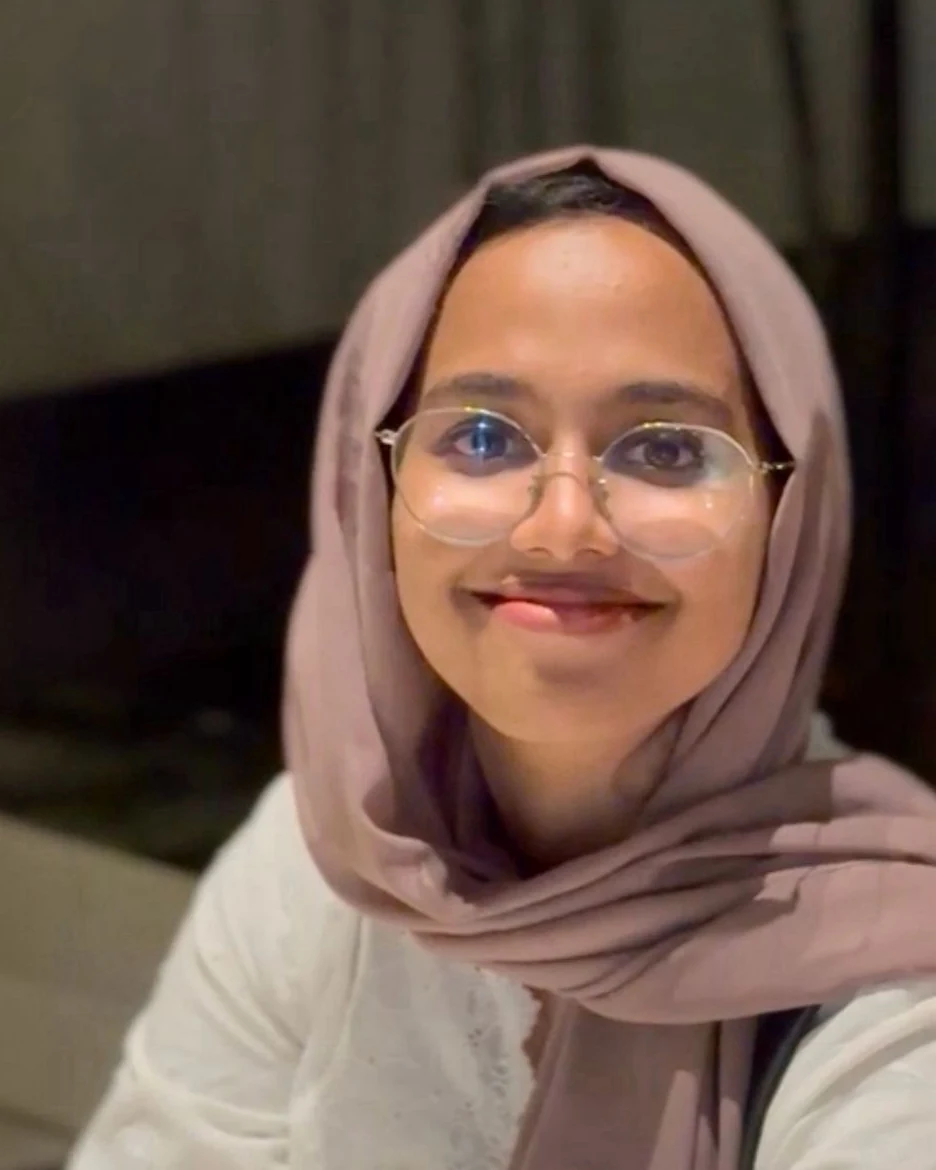
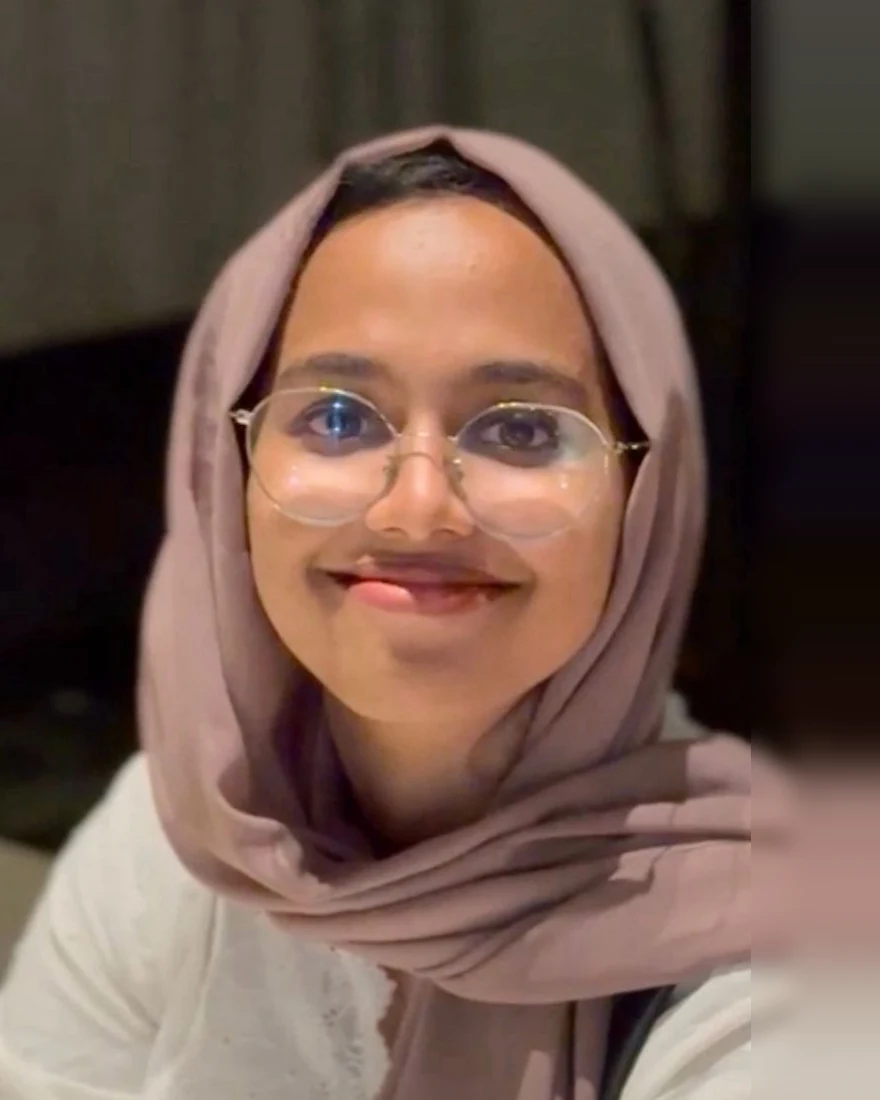
Centre face in hero portrait

diff --git a/style.css b/style.css
@@ -260,7 +260,7 @@ em { font-family: var(--serif); font-style: italic; font-weight: 400; }
     content: ""; position: absolute; inset: 0; z-index: 1; pointer-events: none;
     background: linear-gradient(180deg, transparent 55%, rgba(12, 11, 15, .55));
 }
-.portrait img { width: 100%; height: 100%; object-fit: cover; object-position: 50% 30%; filter: saturate(.95) contrast(1.03); }
+.portrait img { width: 100%; height: 100%; object-fit: cover; object-position: 50% 50%; filter: saturate(.95) contrast(1.03); }
 
 .badge {
     position: absolute; width: 124px; height: 124px; left: -42px; bottom: 56px; z-index: 2;

diff --git a/index.html b/index.html
@@ -81,7 +81,7 @@
 
                 <div class="hero-visual reveal">
                     <div class="portrait">
-                        <img src="assets/img/headshot.webp" alt="Portrait of Nadha Shirin K N smiling, wearing a mauve hijab and glasses" width="936" height="1170">
+                        <img src="assets/img/headshot.webp" alt="Portrait of Nadha Shirin K N smiling, wearing a mauve hijab and glasses" width="880" height="1100">
                     </div>
                     <div class="badge" aria-hidden="true">
                         <svg viewBox="0 0 120 120">
